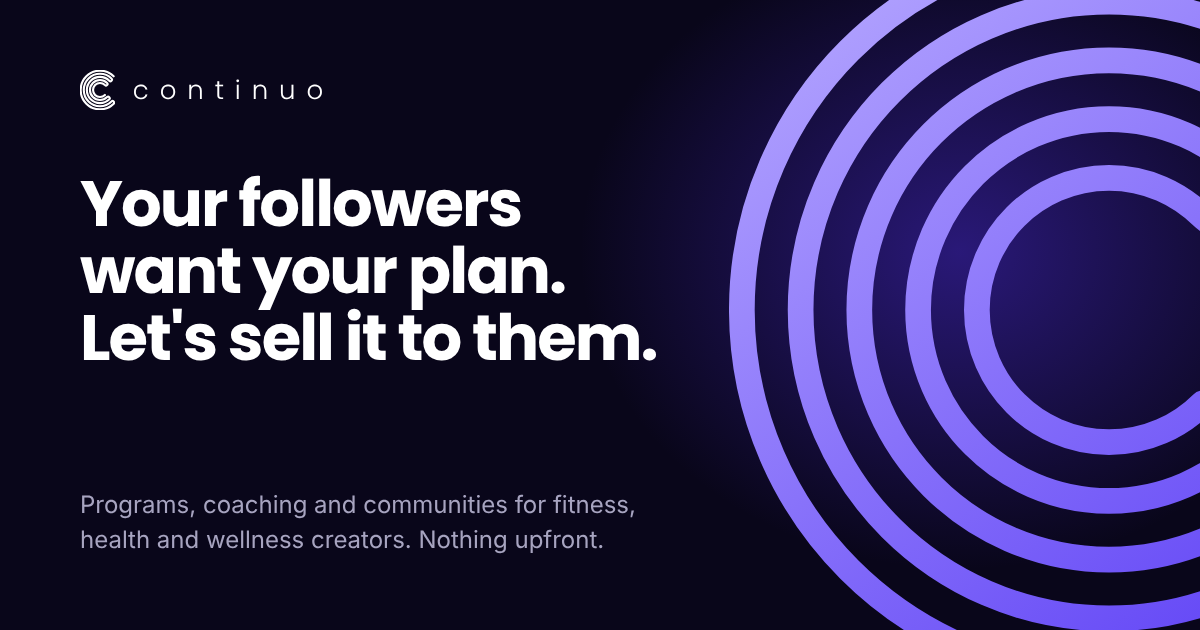
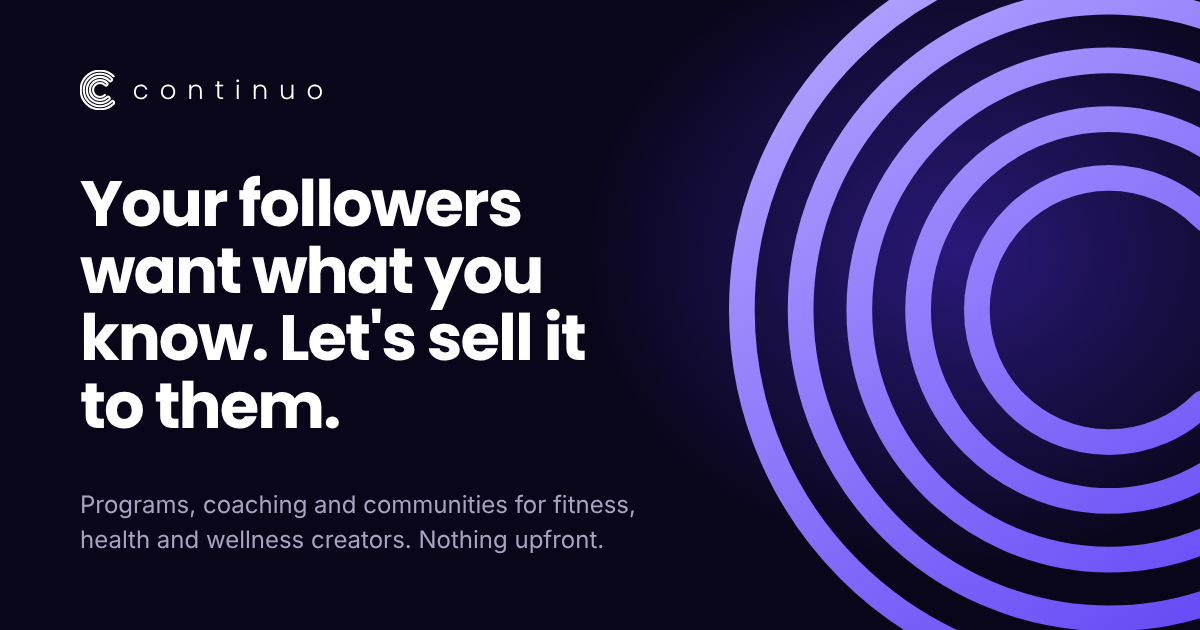
New headline, our free plan buttons, DM keyword
Headline no longer uses plan twice, buttons say Get our free plan, note says what the plan contains, DM keyword PLAN, founder heading Why Continuo exists, share image updated.

Claude-Session: https://claude.ai/code/session_01MsXcHxxULEStdqsE4ZFomC

Changed region(s): [[0.0617, 0.3921, 0.555, 0.573], [0.0617, 0.6032, 0.2775, 0.6937]]

diff --git a/index.html b/index.html
@@ -5,7 +5,7 @@
 <meta name="viewport" content="width=device-width, initial-scale=1">
 <title>Continuo | Products for fitness, health and wellness creators</title>
 <meta name="description" content="Continuo builds and sells programs, coaching and communities for fitness, health and wellness creators in the GCC and Europe. Nothing upfront. We only earn when you do.">
-<meta property="og:title" content="Continuo | Your followers want your plan. Let's sell it to them.">
+<meta property="og:title" content="Continuo | Your followers want what you know. Let's sell it to them.">
 <meta property="og:description" content="Programs, coaching and communities for fitness, health and wellness creators. Built and sold with you on a revenue split. Nothing upfront.">
 <meta property="og:type" content="website">
 <meta property="og:url" content="https://www.continuopartners.com/">
@@ -110,7 +110,7 @@ p { margin: 0; }
 .rise { opacity: 0; transform: translateY(18px); animation: riseUp 0.9s var(--ease-out) forwards; animation-delay: var(--d, 0s); }
 @keyframes riseUp { to { opacity: 1; transform: none; } }
 .actions { display: flex; flex-wrap: wrap; align-items: center; gap: 18px 30px; margin-top: 34px; }
-.note { margin-top: 18px; font-size: 14px; color: var(--muted); }
+.note { margin-top: 18px; font-size: 14px; color: var(--muted); max-width: 40em; text-wrap: pretty; }
 
 /* Headline word reveal (added by script) */
 .split .h-word { display: inline-block; overflow: hidden; vertical-align: bottom; padding: 0.04em 0.02em 0.12em; margin: -0.04em -0.02em -0.12em; }
@@ -322,7 +322,7 @@ p { margin: 0; }
       <svg viewBox="-103.5 -103.5 180.1 207" aria-hidden="true" focusable="false"><use class="mk" href="#mark"/></svg>
       <span class="wordmark">continuo</span>
     </a>
-    <a class="btn btn--small btn--mag" href="#apply">Get your free plan</a>
+    <a class="btn btn--small btn--mag" href="#apply">Get our free plan</a>
   </div>
 </header>
 
@@ -336,15 +336,15 @@ p { margin: 0; }
   </svg>
   <div class="wrap">
     <div class="hero-copy">
-      <h1 id="hero-title">Your followers want your plan. Let's sell it to them.</h1>
+      <h1 id="hero-title">Your followers want what you know. Let's sell it to them.</h1>
       <p class="lead rise" style="--d: 0.65s">Continuo builds and sells programs, coaching and communities for fitness, health and wellness creators in the GCC and Europe. Nothing upfront. We only earn when you do.</p>
       <div class="actions rise" style="--d: 0.8s">
-        <a class="btn btn--mag" href="#apply">Get your free plan
+        <a class="btn btn--mag" href="#apply">Get our free plan
           <svg viewBox="0 0 20 20" fill="none" aria-hidden="true"><path d="M4 10h11M11 5.5 15.5 10 11 14.5" stroke="currentColor" stroke-width="2" stroke-linecap="round" stroke-linejoin="round"/></svg>
         </a>
-        <a class="textlink" href="https://ig.me/m/mypektas" target="_blank" rel="noopener">Or DM me on Instagram</a>
+        <a class="textlink" href="https://ig.me/m/mypektas" target="_blank" rel="noopener">Or DM me &ldquo;PLAN&rdquo; on Instagram</a>
       </div>
-      <p class="note rise" style="--d: 0.95s">Seven quick questions, then pick a call time that suits you.</p>
+      <p class="note rise" style="--d: 0.95s">Answer seven quick questions, pick a call time, and get a one page plan for your account: what to sell, at what price, and how the split works.</p>
     </div>
 
     <figure class="score rise" style="--d: 1.05s" aria-label="Your part is creating and going live at launch. Continuo runs everything else.">
@@ -401,7 +401,7 @@ p { margin: 0; }
 <section class="band founder" aria-labelledby="founder-title">
   <div class="wrap founder-grid">
     <div class="founder-copy">
-      <h2 id="founder-title" data-reveal>Why I started Continuo.</h2>
+      <h2 id="founder-title" data-reveal>Why Continuo exists.</h2>
       <p class="lead" data-reveal style="--i: 1">Creators do the hardest part of the work and keep the smallest part of the money. I want to change that.</p>
       <p class="founder-text" data-reveal style="--i: 2">Your followers trust you. They ask how you do it, save your posts and copy what you do. That trust is worth a lot, but most of it gets rented out to brands one post at a time, and the income stops the day the deals do. The person who built the audience should earn the most from it.</p>
       <p class="founder-text" data-reveal style="--i: 3">So Continuo is built as a partnership. We turn what you already teach into a program, coaching or community your followers can buy, and we build the systems that keep selling it: the offer, the checkout, the launch and the sales calls. Nothing upfront. We earn a share only when you do, so we only win if you win.</p>
@@ -456,8 +456,8 @@ p { margin: 0; }
 
 <section class="band apply" id="apply" aria-labelledby="apply-title">
   <div class="wrap">
-    <h2 id="apply-title" data-reveal>Get your free plan</h2>
-    <p class="lead" data-reveal style="--i: 1">Seven quick questions, about a minute. Then you pick a call time on the next screen.</p>
+    <h2 id="apply-title" data-reveal>Get our free plan</h2>
+    <p class="lead" data-reveal style="--i: 1">Seven quick questions, about a minute. Then pick a call time, and we go through your plan together on the call.</p>
 
     <div class="quiz" id="quiz" data-reveal="scale" style="--i: 2">
       <div class="quiz-top"><span id="q-step">Before we start</span><span id="q-count"></span></div>
@@ -474,7 +474,7 @@ p { margin: 0; }
       </div>
       <noscript><p class="q-small">Turn on JavaScript to answer the questions.</p></noscript>
     </div>
-    <p class="byline" data-reveal style="--i: 3">Rather talk first? <a class="textlink" href="https://ig.me/m/mypektas" target="_blank" rel="noopener">DM me on Instagram</a></p>
+    <p class="byline" data-reveal style="--i: 3">Rather talk first? <a class="textlink" href="https://ig.me/m/mypektas" target="_blank" rel="noopener">DM me &ldquo;PLAN&rdquo; on Instagram</a></p>
   </div>
 </section>
 
